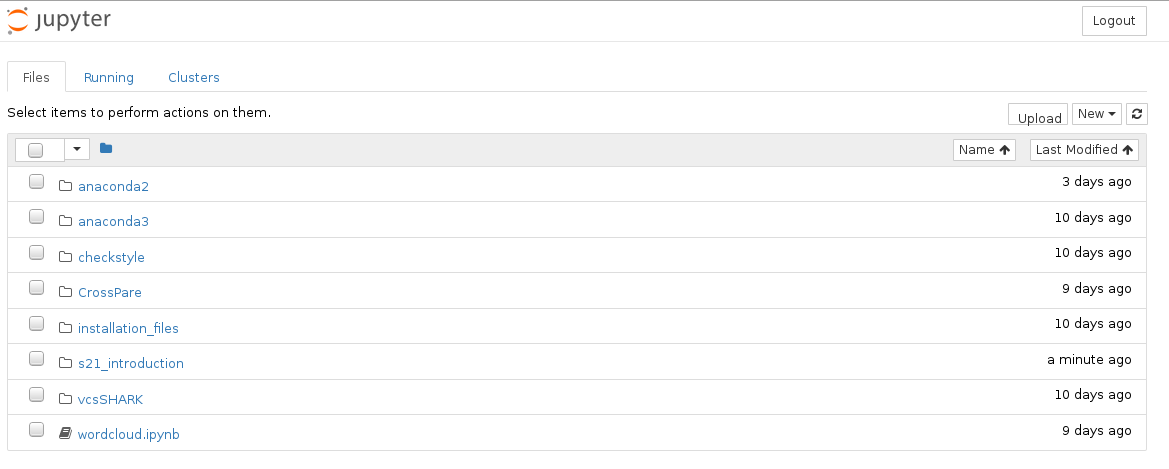
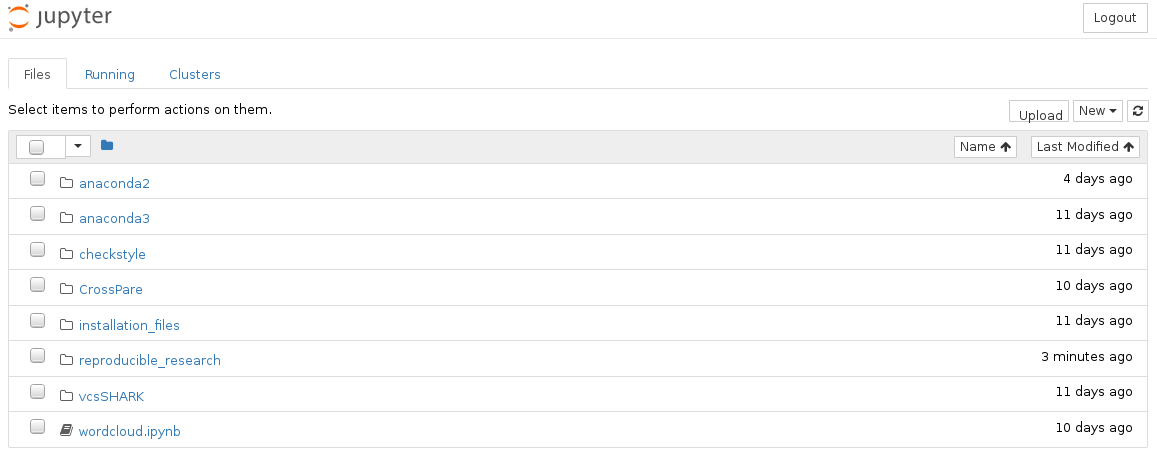
Updated the image and the intro instructions

diff --git a/notebooks/00_preperation.html b/notebooks/00_preperation.html
@@ -1,7 +1,7 @@
 <!DOCTYPE html>
 <html>
 <head><meta charset="utf-8" />
-<title>preperation</title><script src="https://cdnjs.cloudflare.com/ajax/libs/require.js/2.1.10/require.min.js"></script>
+<title>00_preperation</title><script src="https://cdnjs.cloudflare.com/ajax/libs/require.js/2.1.10/require.min.js"></script>
 <script src="https://cdnjs.cloudflare.com/ajax/libs/jquery/2.0.3/jquery.min.js"></script>
 
 <style type="text/css">
@@ -11654,10 +11654,8 @@ ul.typeahead-list > li > a {
 .highlight .mh { color: #666666 } /* Literal.Number.Hex */
 .highlight .mi { color: #666666 } /* Literal.Number.Integer */
 .highlight .mo { color: #666666 } /* Literal.Number.Oct */
-.highlight .sa { color: #BA2121 } /* Literal.String.Affix */
 .highlight .sb { color: #BA2121 } /* Literal.String.Backtick */
 .highlight .sc { color: #BA2121 } /* Literal.String.Char */
-.highlight .dl { color: #BA2121 } /* Literal.String.Delimiter */
 .highlight .sd { color: #BA2121; font-style: italic } /* Literal.String.Doc */
 .highlight .s2 { color: #BA2121 } /* Literal.String.Double */
 .highlight .se { color: #BB6622; font-weight: bold } /* Literal.String.Escape */
@@ -11668,11 +11666,9 @@ ul.typeahead-list > li > a {
 .highlight .s1 { color: #BA2121 } /* Literal.String.Single */
 .highlight .ss { color: #19177C } /* Literal.String.Symbol */
 .highlight .bp { color: #008000 } /* Name.Builtin.Pseudo */
-.highlight .fm { color: #0000FF } /* Name.Function.Magic */
 .highlight .vc { color: #19177C } /* Name.Variable.Class */
 .highlight .vg { color: #19177C } /* Name.Variable.Global */
 .highlight .vi { color: #19177C } /* Name.Variable.Instance */
-.highlight .vm { color: #19177C } /* Name.Variable.Magic */
 .highlight .il { color: #666666 } /* Literal.Number.Integer.Long */
     </style>
 <style type="text/css">
@@ -11726,9 +11722,7 @@ body {
 div#notebook {
   overflow: visible;
   border-top: none;
-}
-
-@media print {
+}@media print {
   div.cell {
     display: block;
     page-break-inside: avoid;
@@ -11749,7 +11743,7 @@ div#notebook {
 
 <!-- Loading mathjax macro -->
 <!-- Load mathjax -->
-    <script src="https://cdn.mathjax.org/mathjax/latest/MathJax.js?config=TeX-AMS_HTML"></script>
+    <script src="https://cdnjs.cloudflare.com/ajax/libs/mathjax/2.7.1/MathJax.js?config=TeX-AMS_HTML"></script>
     <!-- MathJax configuration -->
     <script type="text/x-mathjax-config">
     MathJax.Hub.Config({
@@ -11773,53 +11767,48 @@ div#notebook {
   <div tabindex="-1" id="notebook" class="border-box-sizing">
     <div class="container" id="notebook-container">
 
-<div class="cell border-box-sizing text_cell rendered">
-<div class="prompt input_prompt">
+<div class="cell border-box-sizing text_cell rendered"><div class="prompt input_prompt">
 </div>
 <div class="inner_cell">
 <div class="text_cell_render border-box-sizing rendered_html">
-<h1 id="Preparing-for-the-practical-session">Preparing for the practical session<a class="anchor-link" href="#Preparing-for-the-practical-session">&#182;</a></h1><h2 id="Connecting-to-the-VMs">Connecting to the VMs<a class="anchor-link" href="#Connecting-to-the-VMs">&#182;</a></h2>
+<h1 id="Preparing-for-the-practical-session">Preparing for the practical session<a class="anchor-link" href="#Preparing-for-the-practical-session">&#194;&#182;</a></h1><h2 id="Connecting-to-the-VMs">Connecting to the VMs<a class="anchor-link" href="#Connecting-to-the-VMs">&#194;&#182;</a></h2>
 </div>
 </div>
 </div>
-<div class="cell border-box-sizing text_cell rendered">
-<div class="prompt input_prompt">
+<div class="cell border-box-sizing text_cell rendered"><div class="prompt input_prompt">
 </div>
 <div class="inner_cell">
 <div class="text_cell_render border-box-sizing rendered_html">
-<h3 id="Windows-Users">Windows Users<a class="anchor-link" href="#Windows-Users">&#182;</a></h3><p>You need to use <a href="https://www.chiark.greenend.org.uk/~sgtatham/putty/latest.html">Putty</a> to connect to the server. You should have already installed and tested this during the first day of the summer school.</p>
+<h3 id="Windows-Users">Windows Users<a class="anchor-link" href="#Windows-Users">&#194;&#182;</a></h3><p>You need to use <a href="https://www.chiark.greenend.org.uk/~sgtatham/putty/latest.html">Putty</a> to connect to the server. You should have already installed and tested this during the first day of the summer school.</p>
 
 </div>
 </div>
 </div>
-<div class="cell border-box-sizing text_cell rendered">
-<div class="prompt input_prompt">
+<div class="cell border-box-sizing text_cell rendered"><div class="prompt input_prompt">
 </div>
 <div class="inner_cell">
 <div class="text_cell_render border-box-sizing rendered_html">
-<h3 id="Linux-/-Mac-Users">Linux / Mac Users<a class="anchor-link" href="#Linux-/-Mac-Users">&#182;</a></h3><p>You can use the preinstalled terminal that exist in your system</p>
+<h3 id="Linux-/-Mac-Users">Linux / Mac Users<a class="anchor-link" href="#Linux-/-Mac-Users">&#194;&#182;</a></h3><p>You can use the preinstalled terminal that exist in your system</p>
 
 </div>
 </div>
 </div>
-<div class="cell border-box-sizing text_cell rendered">
-<div class="prompt input_prompt">
+<div class="cell border-box-sizing text_cell rendered"><div class="prompt input_prompt">
 </div>
 <div class="inner_cell">
 <div class="text_cell_render border-box-sizing rendered_html">
-<h2 id="Activate-the-Anaconda-Python-Environment">Activate the Anaconda Python Environment<a class="anchor-link" href="#Activate-the-Anaconda-Python-Environment">&#182;</a></h2><p>The <a href="https://www.continuum.io/downloads">Anaconda Scientific Python Distribution</a> is a really convenient tool, to install, manage, and use scientific python packages. It allows you to install a complete distribution, under a user directory, without conflicting with system packages. This also allows to have the latest version of Python, to older servers.</p>
+<h2 id="Activate-the-Anaconda-Python-Environment">Activate the Anaconda Python Environment<a class="anchor-link" href="#Activate-the-Anaconda-Python-Environment">&#194;&#182;</a></h2><p>The <a href="https://www.continuum.io/downloads">Anaconda Scientific Python Distribution</a> is a really convenient tool, to install, manage, and use scientific python packages. It allows you to install a complete distribution, under a user directory, without conflicting with system packages. This also allows to have the latest version of Python, to older servers.</p>
 <p>Anaconda is already installed in your systems, both in version 2 and 3.</p>
 <p>For this workshop we'll use version 3.</p>
 
 </div>
 </div>
 </div>
-<div class="cell border-box-sizing text_cell rendered">
-<div class="prompt input_prompt">
+<div class="cell border-box-sizing text_cell rendered"><div class="prompt input_prompt">
 </div>
 <div class="inner_cell">
 <div class="text_cell_render border-box-sizing rendered_html">
-<h3 id="Activating-/-Deactivating-your-Anaconda-environment">Activating / Deactivating your Anaconda environment<a class="anchor-link" href="#Activating-/-Deactivating-your-Anaconda-environment">&#182;</a></h3><p>Before we activate Anaconda, first let's check the current version of Python with <code>python --version</code>. The output should be similar to:</p>
+<h3 id="Activating-/-Deactivating-your-Anaconda-environment">Activating / Deactivating your Anaconda environment<a class="anchor-link" href="#Activating-/-Deactivating-your-Anaconda-environment">&#194;&#182;</a></h3><p>Before we activate Anaconda, first let's check the current version of Python with <code>python --version</code>. The output should be similar to:</p>
 
 <pre><code>[cloud@sstestauto ~]$ python --version
 Python 2.7.5</code></pre>
@@ -11830,16 +11819,15 @@ Python 2.7.5</code></pre>
 
 <pre><code>(root) [cloud@sstestauto ~]$ python --version
 Python 3.6.1 :: Anaconda 4.4.0 (64-bit)</code></pre>
-<h4 id="NOTE:-For-this-and-the-following-workshops,-it-is-assumed-that-you-have-activated-the-environment">NOTE: For this and the following workshops, it is assumed that you have activated the environment<a class="anchor-link" href="#NOTE:-For-this-and-the-following-workshops,-it-is-assumed-that-you-have-activated-the-environment">&#182;</a></h4>
+<h4 id="NOTE:-For-this-and-the-following-workshops,-it-is-assumed-that-you-have-activated-the-environment">NOTE: For this and the following workshops, it is assumed that you have activated the environment<a class="anchor-link" href="#NOTE:-For-this-and-the-following-workshops,-it-is-assumed-that-you-have-activated-the-environment">&#194;&#182;</a></h4>
 </div>
 </div>
 </div>
-<div class="cell border-box-sizing text_cell rendered">
-<div class="prompt input_prompt">
+<div class="cell border-box-sizing text_cell rendered"><div class="prompt input_prompt">
 </div>
 <div class="inner_cell">
 <div class="text_cell_render border-box-sizing rendered_html">
-<h2 id="Starting-the-Jupyter-Notebook">Starting the Jupyter Notebook<a class="anchor-link" href="#Starting-the-Jupyter-Notebook">&#182;</a></h2><p>You'll need to execute the following commands on your VM.</p>
+<h2 id="Starting-the-Jupyter-Notebook">Starting the Jupyter Notebook<a class="anchor-link" href="#Starting-the-Jupyter-Notebook">&#194;&#182;</a></h2><p>You'll need to execute the following commands on your VM.</p>
 <ul>
 <li><p>Generate Notebook configuration</p>
 
@@ -11859,12 +11847,11 @@ Python 3.6.1 :: Anaconda 4.4.0 (64-bit)</code></pre>
 </div>
 </div>
 </div>
-<div class="cell border-box-sizing text_cell rendered">
-<div class="prompt input_prompt">
+<div class="cell border-box-sizing text_cell rendered"><div class="prompt input_prompt">
 </div>
 <div class="inner_cell">
 <div class="text_cell_render border-box-sizing rendered_html">
-<h2 id="Creating-an-ssh-tunnel">Creating an ssh tunnel<a class="anchor-link" href="#Creating-an-ssh-tunnel">&#182;</a></h2><p>To connect to the notebook that runs on a remote server, we could:</p>
+<h2 id="Creating-an-ssh-tunnel">Creating an ssh tunnel<a class="anchor-link" href="#Creating-an-ssh-tunnel">&#194;&#182;</a></h2><p>To connect to the notebook that runs on a remote server, we could:</p>
 <ol>
 <li>Remove the security restrions imposed by Jupyter, and connect through http<ul>
 <li>Bad Practice</li>
@@ -11883,12 +11870,11 @@ Python 3.6.1 :: Anaconda 4.4.0 (64-bit)</code></pre>
 </div>
 </div>
 </div>
-<div class="cell border-box-sizing text_cell rendered">
-<div class="prompt input_prompt">
+<div class="cell border-box-sizing text_cell rendered"><div class="prompt input_prompt">
 </div>
 <div class="inner_cell">
 <div class="text_cell_render border-box-sizing rendered_html">
-<h3 id="Windows-Users">Windows Users<a class="anchor-link" href="#Windows-Users">&#182;</a></h3><ol>
+<h3 id="Windows-Users">Windows Users<a class="anchor-link" href="#Windows-Users">&#194;&#182;</a></h3><ol>
 <li><p>Open a new Putty window</p>
 </li>
 <li><p>Go to the SSH -&gt; Tunnels</p>
@@ -11906,12 +11892,11 @@ Python 3.6.1 :: Anaconda 4.4.0 (64-bit)</code></pre>
 </div>
 </div>
 </div>
-<div class="cell border-box-sizing text_cell rendered">
-<div class="prompt input_prompt">
+<div class="cell border-box-sizing text_cell rendered"><div class="prompt input_prompt">
 </div>
 <div class="inner_cell">
 <div class="text_cell_render border-box-sizing rendered_html">
-<h3 id="Linux-/-Mac-Users">Linux / Mac Users<a class="anchor-link" href="#Linux-/-Mac-Users">&#182;</a></h3><p>Open a new terminal window and execute the following command, replacing <code>&lt;IP&gt;</code> with the IP of your server</p>
+<h3 id="Linux-/-Mac-Users">Linux / Mac Users<a class="anchor-link" href="#Linux-/-Mac-Users">&#194;&#182;</a></h3><p>Open a new terminal window and execute the following command, replacing <code>&lt;IP&gt;</code> with the IP of your server</p>
 
 <pre><code>ssh -N -L localhost:8888:localhost:8889 cloud@141.5.102.194</code></pre>
 <p>The command will not return, and keep running. To stop it you can issue a <strong><code>CTRL+C</code></strong>.</p>
@@ -11924,27 +11909,25 @@ Python 3.6.1 :: Anaconda 4.4.0 (64-bit)</code></pre>
 </div>
 </div>
 </div>
-<div class="cell border-box-sizing text_cell rendered">
-<div class="prompt input_prompt">
+<div class="cell border-box-sizing text_cell rendered"><div class="prompt input_prompt">
 </div>
 <div class="inner_cell">
 <div class="text_cell_render border-box-sizing rendered_html">
-<h2 id="Connecting-to-the-Notebook">Connecting to the Notebook<a class="anchor-link" href="#Connecting-to-the-Notebook">&#182;</a></h2><p>Now you should be able to go to <a href="http://localhost:8888">http://localhost:8888</a> and connect to your notebook. You would be asked to provide the password that you created at a <a href="#password">previous step</a>.</p>
+<h2 id="Connecting-to-the-Notebook">Connecting to the Notebook<a class="anchor-link" href="#Connecting-to-the-Notebook">&#194;&#182;</a></h2><p>Now you should be able to go to <a href="http://localhost:8888">http://localhost:8888</a> and connect to your notebook. You would be asked to provide the password that you created at a <a href="#password">previous step</a>.</p>
 <p>You should be seeing something similar to this:</p>
 <p><img src="../images/img_jupyter_start.png" alt="this"></p>
 
 </div>
 </div>
 </div>
-<div class="cell border-box-sizing text_cell rendered">
-<div class="prompt input_prompt">
+<div class="cell border-box-sizing text_cell rendered"><div class="prompt input_prompt">
 </div>
 <div class="inner_cell">
 <div class="text_cell_render border-box-sizing rendered_html">
-<h2 id="Follow-along-the-Demonstration">Follow along the Demonstration<a class="anchor-link" href="#Follow-along-the-Demonstration">&#182;</a></h2><p>To follow along the demonstration:</p>
+<h2 id="Follow-along-the-Demonstration">Follow along the Demonstration<a class="anchor-link" href="#Follow-along-the-Demonstration">&#194;&#182;</a></h2><p>To follow along the demonstration:</p>
 <ul>
-<li>go to the directory: <code>s21_introduction</code></li>
-<li>from the <strong>New</strong> button, choose a Python3, notebook</li>
+<li>go to the directory: <code>reproducible_research</code></li>
+<li>Now you open the notebook <code>01_navigation.ipynb</code> and follow along.</li>
 </ul>
 
 </div>
